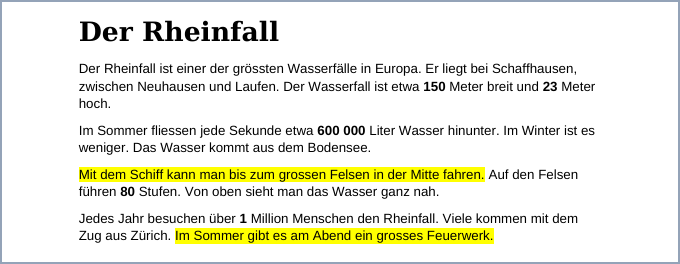
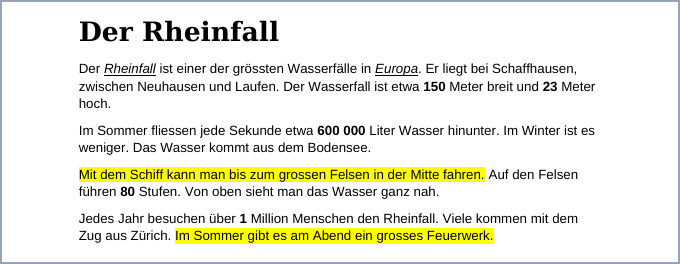
Word-Führerschein: Wiederholungen zurück (kursiv, unterstrichen, Kopieren, Blocksatz, Überschrift 2 u.a.)
Claude-Session: https://claude.ai/code/session_01DxcwozY8YnNsB45PjCnVcF

diff --git a/Informatik Word-Fuehrerschein.html b/Informatik Word-Fuehrerschein.html
@@ -464,11 +464,11 @@
           help: [DL_HELP, REN_HELP, APP_HELP, ABG_HELP],
           proof: 'In «Aufgabenbearbeitung › MI › Word» liegt «Informatik_Rheinfall». Sie ist in der Word-App offen.' },
         { id: 'w1_m2', st: 3, nr: ['W1.2'], type: 'mission', q: 'Mission W1.2: Titel und Zahlen',
-          steps: ['Titel «Der Rheinfall»: Schriftart <b>Georgia</b>, Grösse <b>24</b>, <b>fett</b>.', 'Im Text hat es <b>5 Zahlen</b>. Mach alle 5 <b>fett</b> (Doppelklick auf die Zahl, dann F).', 'Hebe den Satz «Mit dem Schiff …» <b>gelb</b> hervor (Textmarker ab).', 'Hebe auch den letzten Satz «Im Sommer gibt es am Abend ein grosses Feuerwerk.» <b>gelb</b> hervor.', 'Speichere mit <b>Ctrl + S</b>.'],
+          steps: ['Titel «Der Rheinfall»: Schriftart <b>Georgia</b>, Grösse <b>24</b>, <b>fett</b>.', 'Im Text hat es <b>5 Zahlen</b>. Mach alle 5 <b>fett</b> (Doppelklick auf die Zahl, dann F).', 'Im ersten Satz: Mach «Rheinfall» und «Europa» <b>kursiv</b> und <b>unterstrichen</b>.', 'Hebe den Satz «Mit dem Schiff kann man bis zum grossen Felsen in der Mitte fahren.» <b>gelb</b> hervor (Textmarker ab).', 'Hebe auch den letzten Satz «Im Sommer gibt es am Abend ein grosses Feuerwerk.» <b>gelb</b> hervor.', 'Speichere mit <b>Ctrl + S</b>.'],
           help: ['Einen ganzen Satz markieren: Maus vor das erste Wort, gedrückt halten, bis zum Punkt ziehen.', 'Falsch gemacht? Ctrl + Z macht den letzten Schritt rückgängig.', 'Die 5 Zahlen: 150, 23, 600 000, 80, 1.'],
-          proof: 'Titel gross und fett, 5 Zahlen fett, 2 Sätze gelb.' },
+          proof: 'Titel gross und fett, 5 Zahlen fett, 2 Wörter kursiv und unterstrichen, 2 Sätze gelb.' },
         { id: 'w1_m3', st: 3, nr: ['W1.3'], type: 'mission', q: 'Mission W1.3: Nochmals, im gleichen Text',
-          steps: ['Im Text hat es <b>5 Ortsnamen</b>: Schaffhausen, Neuhausen, Laufen, Bodensee, Zürich. Mach alle 5 <b>kursiv</b> und <b>unterstrichen</b>.', 'Gib dem Titel die Farbe <b>Dunkelblau</b>.', 'Der letzte Abschnitt beginnt mit «Jedes Jahr …». Gib dort dem 1. Satz die Farbe <b>Blau</b>, dem 2. <b>Grün</b> und dem 3. <b>Lila</b>.', 'Im Satz «Der Wasserfall ist etwa 150 Meter breit …»: Mach das Wort «Wasserfall» in der Farbe <b>Rot</b>.', ...FERTIG('Rheinfall')],
+          steps: ['Im Text hat es <b>5 Ortsnamen</b>: Schaffhausen, Neuhausen, Laufen, Bodensee, Zürich. Mach alle 5 <b>kursiv</b> und <b>unterstrichen</b>.', 'Gib dem Titel die Farbe <b>Dunkelblau</b>.', 'Der letzte Abschnitt beginnt mit «Jedes Jahr …». Gib dort dem 1. Satz die Farbe <b>Blau</b>, dem 2. <b>Grün</b> und dem 3. <b>Lila</b>.', 'Im Satz «Der Wasserfall ist etwa 150 Meter breit …»: Mach das Wort «Wasserfall» <b>fett</b> und in der Farbe <b>Rot</b>.', ...FERTIG('Rheinfall')],
           help: [ABG_HELP, 'Vergessen, wie es geht? Tippe auf «📖 Kurz erklärt».', 'Word nicht mehr offen? Teams › Aufgabenbearbeitung › MI › Word › ⋯ › In App öffnen.'],
           proof: 'Orte kursiv und unterstrichen, Titel farbig, letzter Abschnitt bunt, «Wasserfall» rot. Die Datei ist in «Abgabe».' }
       ],
@@ -520,7 +520,7 @@
           help: ['Die Knöpfe für Listen sind im Reiter Start, links oben in der Gruppe «Absatz».', 'Nur die Zeilen markieren, die in die Liste gehören, nicht den Abschnitt darüber.'],
           proof: 'Zutaten und Verzieren mit Punkten, Schritte mit 1. bis 6.' },
         { id: 'w2_m4', st: 3, nr: ['W2.4'], type: 'mission', q: 'Mission W2.4: Nochmals, im gleichen Rezept',
-          steps: ['Das Rezept hat <b>4 Zwischentitel</b>: Zutaten, So geht’s, Tipp, Verzieren. Mach «Zutaten» <b>fett</b>, Farbe <b>Blau</b>, Grösse <b>16</b>.', 'Klicke in «Zutaten». <b>Doppelklick</b> auf den <b>Pinsel</b> und fahr über «So geht’s», «Tipp» und «Verzieren». Dann Esc.', 'Unter «Tipp» stehen <b>3 Schritte</b> (von «Den Kuchen aus dem Ofen …» bis «In 8 Stücke schneiden.»). Mach daraus eine <b>Nummerierung</b>.', 'Ganz unten steht «En Guete!». Mach es <b>zentriert</b>, Grösse <b>20</b> und <b>fett</b>.', ...FERTIG('Rezept')],
+          steps: ['Das Rezept hat <b>4 Zwischentitel</b>: Zutaten, So geht’s, Tipp, Verzieren. Mach «Zutaten» <b>fett</b>, Farbe <b>Blau</b>, Grösse <b>16</b>.', 'Klicke in «Zutaten». <b>Doppelklick</b> auf den <b>Pinsel</b> und fahr über «So geht’s», «Tipp» und «Verzieren». Dann Esc.', 'Unter «Tipp» stehen <b>3 Schritte</b> (von «Den Kuchen aus dem Ofen …» bis «In 8 Stücke schneiden.»). Mach daraus eine <b>Nummerierung</b>.', 'Der Abschnitt «Du kannst den Kuchen schön verzieren …»: <b>Blocksatz</b>. Ganz unten «En Guete!»: <b>zentriert</b>, Grösse <b>20</b>, <b>fett</b>.', 'Klicke in den Abschnitt unter «Tipp». Stell nur dort den <b>Zeilenabstand 2,0</b> ein.', ...FERTIG('Rezept')],
           help: [ABG_HELP, AUF_HELP, 'Pinsel nicht gefunden? Reiter Start, ganz links, unter «Einfügen».'],
           proof: '4 Zwischentitel gleich, Tipp mit 1. 2. 3., «En Guete!» in der Mitte. Die Datei ist in «Abgabe».' }
       ],
@@ -560,19 +560,19 @@
         { id: 'w3_gap', ex: 'tab', st: 2, nr: ['W3.3'], type: 'gap', text: 'Damit Zahlen genau untereinander stehen, drückst du die ___-Taste.',
           a: ['Tab', 'Tabulator', 'Tabulatortaste', 'Tabtaste'], tip: 'Die Taste links neben dem Q.', why: 'Die Tab-Taste (Tabulator).' },
         { id: 'w3_m1', st: 3, nr: ['W3.1'], type: 'mission', q: 'Mission W3.1: Aufwärmen', link: F('W3_Projekt'), linkText: '📥 Keine Mail? Datei hier holen',
-          steps: [...DL('W3_Projekt', 'Klassenlager'), 'Mach im Abschnitt «Einleitung» das Wort «Klassenlager» <b>gelb</b> und «eine Woche» <b>fett</b>.', 'Ctrl + A, <b>Zeilenabstand 1,5</b>. Mach aus den 3 Sätzen unter «Das Programm» eine <b>Aufzählung</b>. Ctrl + S.'],
+          steps: [...DL('W3_Projekt', 'Klassenlager'), 'Mach im Abschnitt «Einleitung» das Wort «Klassenlager» <b>gelb</b> und «eine Woche» <b>fett</b>.', 'Der Text unter «Das Haus»: <b>Blocksatz</b>. Ctrl + A, <b>Zeilenabstand 1,5</b>.', 'Mach aus den 3 Sätzen unter «Das Programm» eine <b>Aufzählung</b>. Ctrl + S.'],
           help: [DL_HELP, REN_HELP, APP_HELP, AUF_HELP],
           proof: '«Informatik_Klassenlager» liegt in MI › Word. Ein Wort gelb, eines fett, Zeilenabstand 1,5, Programm mit Punkten.' },
         { id: 'w3_m2', st: 3, nr: ['W3.2'], type: 'mission', q: 'Mission W3.2: Titel und Überschriften',
-          steps: ['Klicke in die erste Zeile «Unser Klassenlager». Start › Formatvorlagen › <b>Titel</b>.', 'Gib diesen <b>3 Kapiteln</b> die <b>Überschrift 1</b>: Einleitung, Das Haus, Das Programm. (Packliste und Kosten kommen später.)', '«Die Zimmer» und «Das Essen» sind Teile im Kapitel «Das Haus». Gib beiden <b>Überschrift 2</b>.', 'Ansicht › <b>Navigationsbereich</b>: Siehst du links deine Kapitel? Klicke auf «Das Programm»: Word springt hin. Ctrl + S.'],
+          steps: ['Klicke in die erste Zeile «Unser Klassenlager». Start › Formatvorlagen › <b>Titel</b>.', 'Gib diesen <b>3 Kapiteln</b> die <b>Überschrift 1</b>: Einleitung, Das Haus, Das Programm. (Packliste und Kosten kommen später.)', '«Die Zimmer» ist ein Teil im Kapitel «Das Haus». Gib ihm <b>Überschrift 2</b>. («Das Essen» kommt später.)', 'Ansicht › <b>Navigationsbereich</b>: Siehst du links deine Kapitel? Klicke auf «Das Programm»: Word springt hin. Ctrl + S.'],
           help: ['«Titel» oder «Überschrift 2» nicht zu sehen? Bei den Formatvorlagen auf den kleinen Pfeil ▾ klicken.'],
-          proof: 'Links im Navigationsbereich stehen 3 Kapitel. «Die Zimmer» und «Das Essen» sind etwas eingerückt.' },
+          proof: 'Links im Navigationsbereich stehen 3 Kapitel. «Die Zimmer» ist etwas eingerückt.' },
         { id: 'w3_m3', st: 3, nr: ['W3.3'], type: 'mission', q: 'Mission W3.3: Packliste mit Tabulator',
           steps: ['Klicke auf <b>¶</b> (Start, Gruppe Absatz). In der Packliste siehst du viele Punkte · : Das sind <b>Leerschläge</b>.', 'Lösche bei «Schlafsack» die Leerschläge vor der Zahl. Drück stattdessen die <b>Tab-Taste</b>, bis die Zahl ungefähr in der Mitte steht.', 'Mach es bei <b>allen 6 Zeilen</b> der Packliste so, bis alle Zahlen genau untereinander stehen.', 'Ctrl + S.'],
           help: ['Ein langes Wort braucht weniger Tabs als ein kurzes. Drück so oft, bis es passt.', 'Zu weit gesprungen? Mit der Rücktaste ⌫ einen Tab löschen.'],
           proof: 'Alle Zahlen der Packliste stehen genau untereinander.' },
         { id: 'w3_m4', st: 3, nr: ['W3.4'], type: 'mission', q: 'Mission W3.4: Nochmals, im gleichen Projekt',
-          steps: ['Gib den letzten 2 Kapiteln «Packliste» und «Kosten» auch die <b>Überschrift 1</b>. Schau im Navigationsbereich: Jetzt sind es 5 Kapitel.', 'Im Kapitel «Kosten» stehen Leerschläge vor den Beträgen. Mach es wie bei der Packliste: Leerschläge weg, <b>Tab-Taste</b>, bis alle <b>4 Beträge</b> genau untereinander stehen.', 'Mach die Zeile «Total» <b>fett</b>. Klicke nochmals auf ¶: Die Zeichen sind wieder versteckt.', 'Klicke im Navigationsbereich auf «Einleitung»: Word springt nach oben.', ...FERTIG('Klassenlager')],
+          steps: ['Gib den letzten 2 Kapiteln «Packliste» und «Kosten» auch die <b>Überschrift 1</b>. Gib «Das Essen» die <b>Überschrift 2</b>. Schau im Navigationsbereich: Jetzt sind es 5 Kapitel.', 'Im Kapitel «Kosten» stehen Leerschläge vor den Beträgen. Mach es wie bei der Packliste: Leerschläge weg, <b>Tab-Taste</b>, bis alle <b>4 Beträge</b> genau untereinander stehen.', 'Mach die Zeile «Total» <b>fett</b>. Klicke nochmals auf ¶: Die Zeichen sind wieder versteckt.', 'Klicke im Navigationsbereich auf «Einleitung»: Word springt nach oben.', ...FERTIG('Klassenlager')],
           help: [ABG_HELP, AUF_HELP, 'Mit ¶ siehst du, wo noch Leerschläge sind.'],
           proof: '5 Kapitel im Navigationsbereich, Packliste und Kosten genau untereinander, «Total» fett. Die Datei ist in «Abgabe».' }
       ],
@@ -620,9 +620,9 @@
           help: [DL_HELP, REN_HELP, APP_HELP, AUF_HELP],
           proof: '«Informatik_Einladung» liegt in MI › Word. Titel in der Mitte, Datum fett und rot, Programm mit Punkten.' },
         { id: 'w4_m2', st: 3, nr: ['W4.2'], type: 'mission', q: 'Mission W4.2: Ersetzen und verschieben',
-          steps: ['Das Fest ist am <b>Freitag</b>, nicht am Donnerstag! Drück <b>Ctrl + H</b>.', 'Suchen nach: <b>Donnerstag</b> · Ersetzen durch: <b>Freitag</b> · <b>Alle ersetzen</b>. Word sagt dir, wie oft es ersetzt hat.', 'Der Satz «Wir freuen uns auf Sie!» steht zuoberst falsch. Markiere ihn, <b>Ctrl + X</b>. Klicke vor den Gruss ganz unten («Herzliche …»), <b>Ctrl + V</b>.', 'Ctrl + S.'],
+          steps: ['Das Fest ist am <b>Freitag</b>, nicht am Donnerstag! Drück <b>Ctrl + H</b>.', 'Suchen nach: <b>Donnerstag</b> · Ersetzen durch: <b>Freitag</b> · <b>Alle ersetzen</b>. Word sagt dir, wie oft es ersetzt hat.', 'Der Satz «Wir freuen uns auf Sie!» steht zuoberst falsch. Markiere ihn, <b>Ctrl + X</b>. Klicke vor den Gruss ganz unten («Herzliche …»), <b>Ctrl + V</b>.', 'Kopiere die Zeile «Musik von der Klasse» mit <b>Ctrl + C</b>. Füge sie mit <b>Ctrl + V</b> darunter nochmals ein. Ändere die Kopie zu «Tanzen». Ctrl + S.'],
           help: ['Ctrl + H geht nicht? Start › ganz rechts › Ersetzen.', 'Ctrl + F zeigt links alle Stellen mit dem Wort. So kannst du prüfen, ob noch ein «Donnerstag» da ist.'],
-          proof: 'Überall steht Freitag. «Wir freuen uns auf Sie!» steht vor dem Gruss.' },
+          proof: 'Überall steht Freitag. «Wir freuen uns auf Sie!» steht vor dem Gruss. Im Programm steht neu «Tanzen».' },
         { id: 'w4_m3', st: 3, nr: ['W4.3'], type: 'mission', q: 'Mission W4.3: Sprache und Rechtschreibung',
           steps: ['Fast alles ist rot! Drück <b>Ctrl + A</b>.', '<b>Überprüfen › Sprache › Sprache für die Korrekturhilfen festlegen</b> → <b>Deutsch (Schweiz)</b> → OK.', 'Jetzt sind nur noch die echten Fehler rot. Klicke mit der <b>rechten Maustaste</b> auf ein rotes Wort und wähle die richtige Schreibweise.', 'Verbessere die <b>3 Fehler im oberen Teil</b> (bis «Programm:»). Die anderen machst du in W4.4. Ctrl + S.'],
           help: ['Auch Überprüfen › Editor (oder F7) zeigt dir die Fehler nacheinander.', 'Word schlägt etwas Falsches vor? Du entscheidest. Nicht jeder Vorschlag stimmt.'],
@@ -720,7 +720,7 @@
         { id: 'w6_gap', ex: 'tabelle', st: 2, nr: ['W6.2'], type: 'gap', text: 'Eine Tabelle besteht aus Zeilen und ___.',
           a: ['Spalten', 'Spalte'], tip: 'Zeilen liegen waagrecht. Was steht senkrecht?', why: 'Zeilen und Spalten.' },
         { id: 'w6_m1', st: 3, nr: ['W6.1'], type: 'mission', q: 'Mission W6.1: Aufwärmen', link: F('W6_Tiere'), linkText: '📥 Keine Mail? Datei hier holen',
-          steps: [...DL('W6_Tiere', 'Tiere'), 'Titel: Formatvorlage <b>Titel</b>. Der Text darunter: <b>Blocksatz</b>, Zeilenabstand <b>1,5</b>. Im Text stehen <b>7 Tiere</b>: Mach alle 7 <b>fett</b>.', 'Füge ein <b>Bild</b> von einem Tier ein: kleiner ziehen, <b>Quadratisch</b>. Ctrl + S.'],
+          steps: [...DL('W6_Tiere', 'Tiere'), 'Titel: Formatvorlage <b>Titel</b>, Farbe <b>Grün</b>. Der Text darunter: <b>Blocksatz</b>, Zeilenabstand <b>1,5</b>. Im Text stehen <b>7 Tiere</b>: Mach alle 7 <b>fett</b>.', 'Füge ein <b>Bild</b> von einem Tier ein: kleiner ziehen, <b>Quadratisch</b>. Ctrl + S.'],
           help: [DL_HELP, REN_HELP, APP_HELP, AUF_HELP, 'Die 7 Tiere: Fuchs, Eichhörnchen, Dachs, Igel, Murmeltiere, Gämsen, Steinböcke.'],
           proof: '«Informatik_Tiere» liegt in MI › Word. Titel, Blocksatz, 7 Tiere fett, ein Bild mit Text daneben.' },
         { id: 'w6_m2', st: 3, nr: ['W6.2'], type: 'mission', q: 'Mission W6.2: Tabelle machen',
@@ -784,7 +784,7 @@
         { id: 'w7_gap', ex: 'kopf', st: 2, nr: ['W7.2'], type: 'gap', text: 'Die Seitenzahl steht unten auf der Seite in der ___.',
           a: ['Fusszeile', 'Fußzeile', 'Fusszeilen'], tip: 'Oben ist die Kopfzeile. Und unten, bei den Füssen?', why: 'In der Fusszeile.' },
         { id: 'w7_m1', st: 3, nr: ['W7.1'], type: 'mission', q: 'Mission W7.1: Aufwärmen', link: F('W7_Projekt'), linkText: '📥 Keine Mail? Datei hier holen',
-          steps: [...DL('W7_Projekt', 'Projektarbeit'), 'Mach den Titel «Unser Klassenlager» <b>zentriert</b> und Farbe <b>Lila</b>.', 'Klicke an den Anfang der Einleitung. Füge ein <b>Bild</b> ein (z.B. Berge): kleiner ziehen, <b>Quadratisch</b>, rechts.', 'Ctrl + A: <b>Zeilenabstand 1,5</b>. Ctrl + S.'],
+          steps: [...DL('W7_Projekt', 'Projektarbeit'), 'Mach den Titel «Unser Klassenlager» <b>zentriert</b> und Farbe <b>Lila</b>.', 'Klicke an den Anfang der Einleitung. Füge ein <b>Bild</b> ein (z.B. Berge): kleiner ziehen, <b>Quadratisch</b>, rechts.', 'In der Einleitung: «eine Woche» <b>fett</b>, «in den Bergen» <b>gelb</b>. Ctrl + A: <b>Zeilenabstand 1,5</b>. Ctrl + S.'],
           help: [DL_HELP, REN_HELP, APP_HELP, AUF_HELP],
           proof: '«Informatik_Projektarbeit» liegt in MI › Word. Titel in der Mitte und farbig, ein Bild mit Text daneben.' },
         { id: 'w7_m2', st: 3, nr: ['W7.2'], type: 'mission', q: 'Mission W7.2: Kopfzeile, Seitenzahl, neue Seite',
@@ -792,7 +792,7 @@
           help: ['Zurück in den Text? Doppelklick in den normalen Text oder Esc.', 'Schau mit dem Mausrad nach unten: Hat jede Seite ihre Zahl?'],
           proof: 'Die Packliste ist auf einer eigenen Seite. Oben steht dein Vorname, unten die Seitenzahl.' },
         { id: 'w7_m3', st: 3, nr: ['W7.3'], type: 'mission', q: 'Mission W7.3: Nochmals, in der gleichen Projektarbeit',
-          steps: ['<b>Layout › Seitenränder › Schmal</b>. Schau: Der Text rutscht nach oben. Dann wieder <b>Normal</b>.', '<b>Layout › Ausrichtung › Querformat</b>. Schau, wie sich die Seiten verändern. Dann wieder <b>Hochformat</b>.', 'Klicke vor das Kapitel «Das Programm» und drück <b>Ctrl + Enter</b>. Jetzt hat die Arbeit 3 Seiten.', 'Doppelklick in die Kopfzeile. Schreib hinter deinen Vornamen: <b>· Projektarbeit</b>. Schliessen.', 'Scroll durch alle Seiten: Hat jede Seite oben den Vornamen und unten die richtige Seitenzahl? Ctrl + S.'],
+          steps: ['<b>Layout › Seitenränder › Schmal</b>. Schau: Der Text rutscht nach oben. Dann wieder <b>Normal</b>.', '<b>Layout › Ausrichtung › Querformat</b>. Schau, wie sich die Seiten verändern. Dann wieder <b>Hochformat</b>.', 'Klicke vor das Kapitel «Das Programm» und drück <b>Ctrl + Enter</b>. Jetzt hat die Arbeit 3 Seiten.', 'Doppelklick in die Kopfzeile. Schreib hinter deinen Vornamen: <b>· Projektarbeit</b>. Schliessen.', 'Füge auf der Seite mit der Packliste ein kleines Bild von einem <b>Rucksack</b> ein: <b>Vor den Text</b>, frei neben die Liste schieben.', 'Scroll durch alle Seiten: Hat jede Seite oben den Vornamen und unten die richtige Seitenzahl? Ctrl + S.'],
           help: [AUF_HELP, 'Eine leere Seite zu viel? Mit ¶ siehst du den Seitenumbruch. Lösch ihn mit der Rücktaste ⌫.'],
           proof: '3 Seiten, Hochformat, jede mit «Vorname · Projektarbeit» oben und der richtigen Seitenzahl unten.' },
         { id: 'w7_m4', st: 3, nr: ['W7.4'], type: 'mission', q: 'Mission W7.4: Als PDF abgeben',
